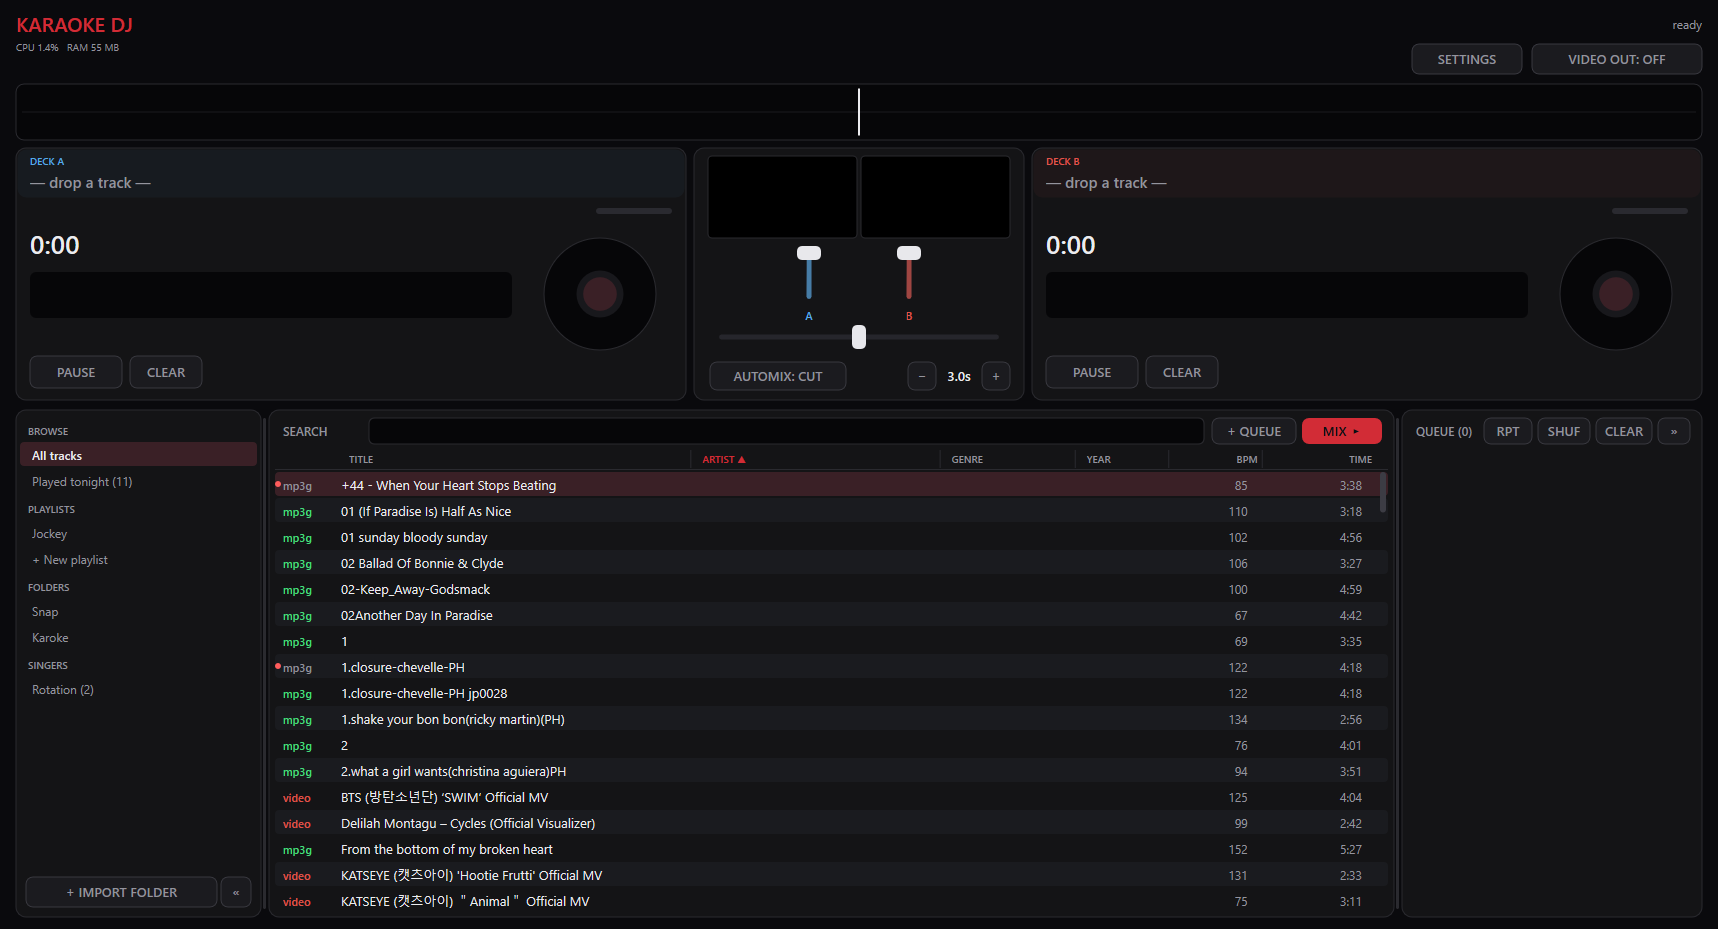
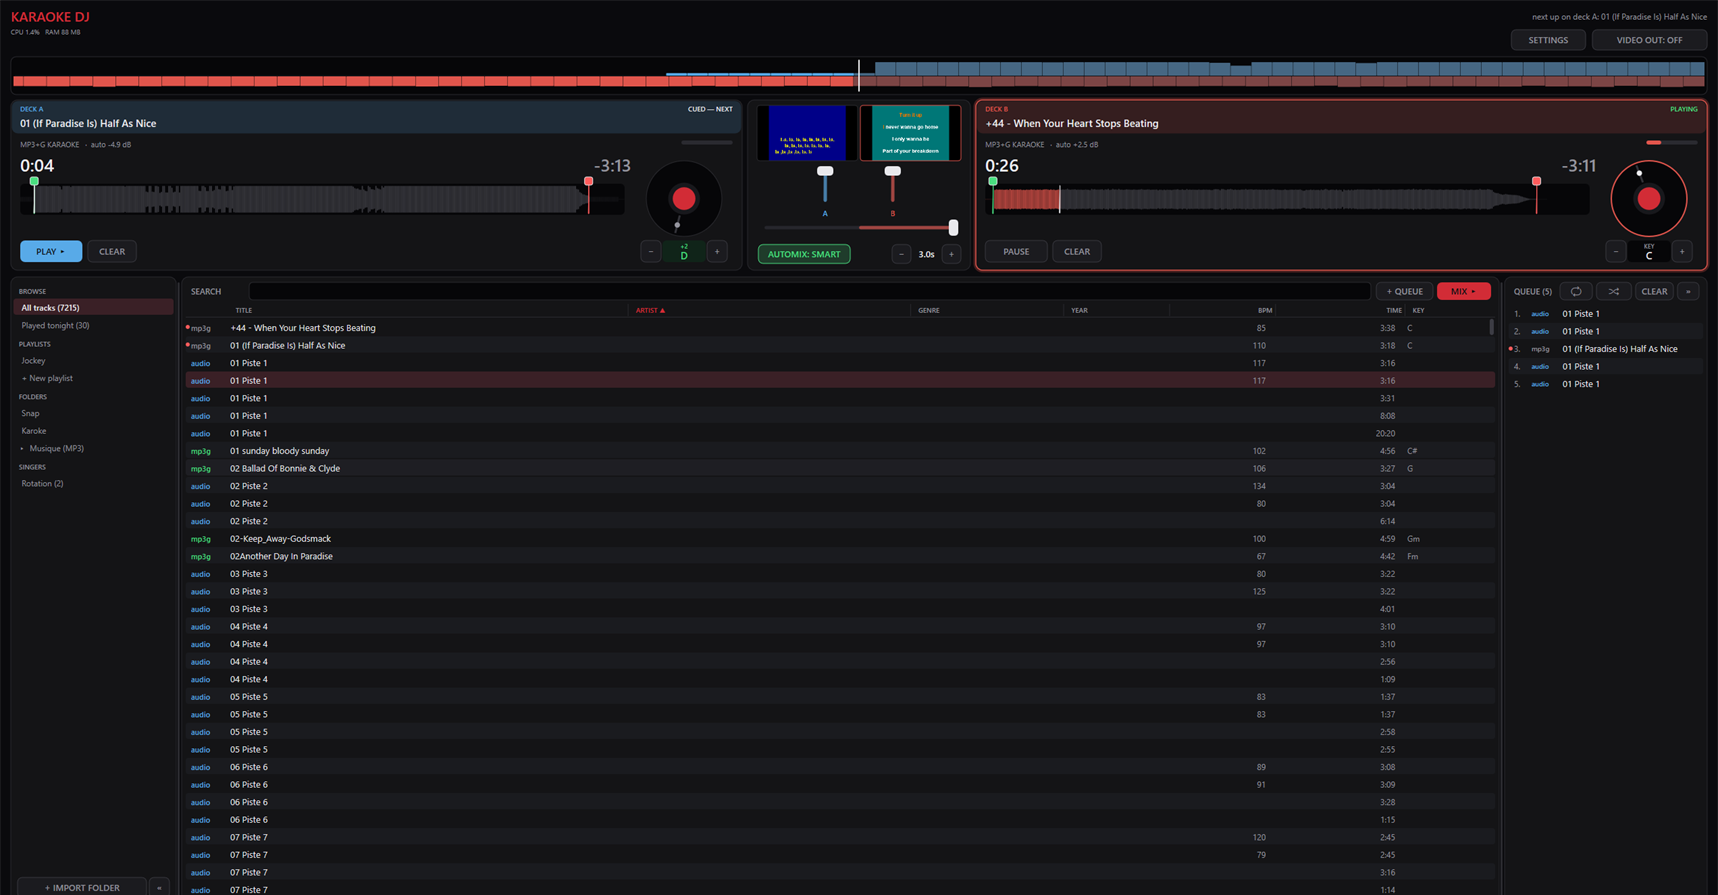
Refresh the screenshot and README for the key-change release
New docs/app.png taken on 1.1.9: deck A cued with the key dialled to +2 (the
readout shows the transposed key, D), deck B playing with the waveform faded
outside its start/end markers, and the browser's new KEY column filled in.

README: source-layout lines mention key analysis and key change, and the
session-snapshot bullet notes that a deliberate close now asks first and
clears the decks and queue.

diff --git a/README.md b/README.md
@@ -86,7 +86,8 @@ Settings) and points you at the download when one exists.
 - **Singer rotation** with per-singer history — reorder by drag, right-click
   to clear for a new night, search any singer to see everything they've sung.
 - **Session snapshots**: if the laptop dies mid-gig, relaunching restores the
-  night exactly where it stopped.
+  night exactly where it stopped. Closing on purpose asks first, then clears
+  the decks and the queue for a fresh start.
 - **Audio device recovery**: pulling the USB interface mid-song recovers
   without a restart.
 - **Second-screen video output** with letterbox / fill / stretch fit modes.
@@ -145,8 +146,8 @@ their own licenses ([THIRD-PARTY-NOTICES.txt](THIRD-PARTY-NOTICES.txt)).
 src/app/       app state, UI drawing, engine tick, menus, data/db glue
 src/ui/        immediate-mode Direct2D widget kit
 src/audio/     WASAPI output + device recovery
-src/media/     Media Foundation decode, waveform/loudness/BPM analysis
-src/playback/  deck engine (transport, mixing, markers)
+src/media/     Media Foundation decode, waveform/loudness/BPM/key analysis
+src/playback/  deck engine (transport, mixing, key change, markers)
 src/karaoke/   CDG rendering + karaoke ZIP handling
 src/video/     video windows (deck previews + fullscreen output)
 src/web/       optional phone-request server (embedded page + JSON API)
